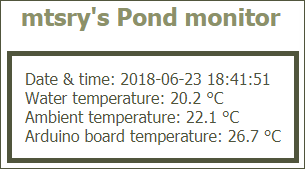
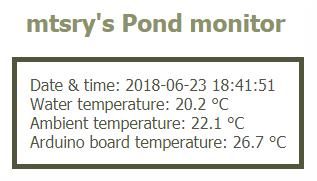
Update

diff --git a/koicafe.html b/koicafe.html
@@ -138,12 +138,15 @@
 </table>
 
 <p><A HREF="#koicafe"><img src="./pictures/return.png" alt="Return button"/></A></p>
+<p>&nbsp;</p>
 
 <h2><a name="controller2"></a>Koi Caf&eacute controller 2.0</h2>
 
 <p>Arduino Mega als timer voor het Koi Café voederapparaat</p>
 
-<p><h3>Componenten</h3>
+<p><br></p>
+<h3>Componenten</h3>
+<p>
   <ul>
     <li>Arduino Mega</li>
     <li>W5100 Ethernet shield</li>
@@ -157,10 +160,36 @@
 <p><img src="./pictures/2022-09-04.jpg"><br>
 (4 september 2022)</p>
 
+<p><br></p>
+<h3>Instructies</h3>
+
+<p>In het geval van de Arduino Mega is de URL het LAN IP adres. 
+Door gebruik te maken van de optionele query string (volgend op het vraagteken) kunnen ‘instructies’ doorgegeven worden aan de Ethernet client. 
+Enkelvoudige instructies maken enkel gebruik van de ‘parameter’ syntax, 
+en met de ‘parameter=waarde’ syntax kunnen waarden aan variabelen toegekend worden.</p>
+<p style="font-family:'Courier New', Courier, monospace;">192.168.1.128/?HAND_FEEDING<br>
+192.168.1.128/?FEEDING_DURATION=1800</p>
+
+<p>De tabel geeft een overzicht van de 'instructies' met betrekking tot het automatisch voederen.</p>
+
+<table style="font-family:'Courier New', Courier, monospace;"><tr><td>
+FEEDING_PROGRAM=&lt;value&gt;<br>
+FEEDING_TIME_OFFSET=&lt;value&gt;<br>
+FEEDING_DURATION=&lt;value&gt;<br>
+HAND_FEEDING<br>
+AUTOMATIC_FEEDING<br>
+PROGRAM_START_TIME=&lt;value&gt;<br>
+PROGRAM_END_TIME=&lt;value&gt;<br>
+PROGRAM_NUMBER_FEEDINGS=&lt;value&gt;<br>
+TEST_FEEDING=&lt;value&gt;
+</td></tr></table>
+
+<p>De actuele instellingen van de Koi Caf&eacute controller zijn beschikbaar via de web server.</p>
+<p><img style="border:1px solid RGB(80,85,60)" src="./pictures/controller.png"></p>
 
 
 <p><A HREF="#koicafe"><img src="./pictures/return.png" alt="Return button"/></A></p>
 </div>
-<div id="footer"><p><br>Last update: September 04, 2022</p></div>
+<div id="footer"><p><br>Last update: September 07, 2022</p></div>
 </div>
 </body></html>

diff --git a/vijver.html b/vijver.html
@@ -209,7 +209,7 @@ een overbodige luxe? Het is in ieder geval een leuk project met een Arduino Uno 
 shield en twee Pt100 breakout boards. Een real time clock mag dan uiteraard ook niet ontbreken.</p>
 <p><img src="./pictures/2018-06-23-1.jpg"><br>
 (23 juni 2018)</p>
-<p><img src="./pictures/2018-06-23-2.png"><br>
+<p><img style="border:1px solid RGB(80,85,60)" src="./pictures/2018-06-23-2.png"><br>
 (23 juni 2018)</p>
 <p>Na het laatste bezoek van een reiger met 3 verdwenen en 1 gewonde goudvis moest er ingegrepen worden. 
 Een van de manier is draden rond de vijver te spannen zodat hij gehinderd wordt en schrikt bij het 
